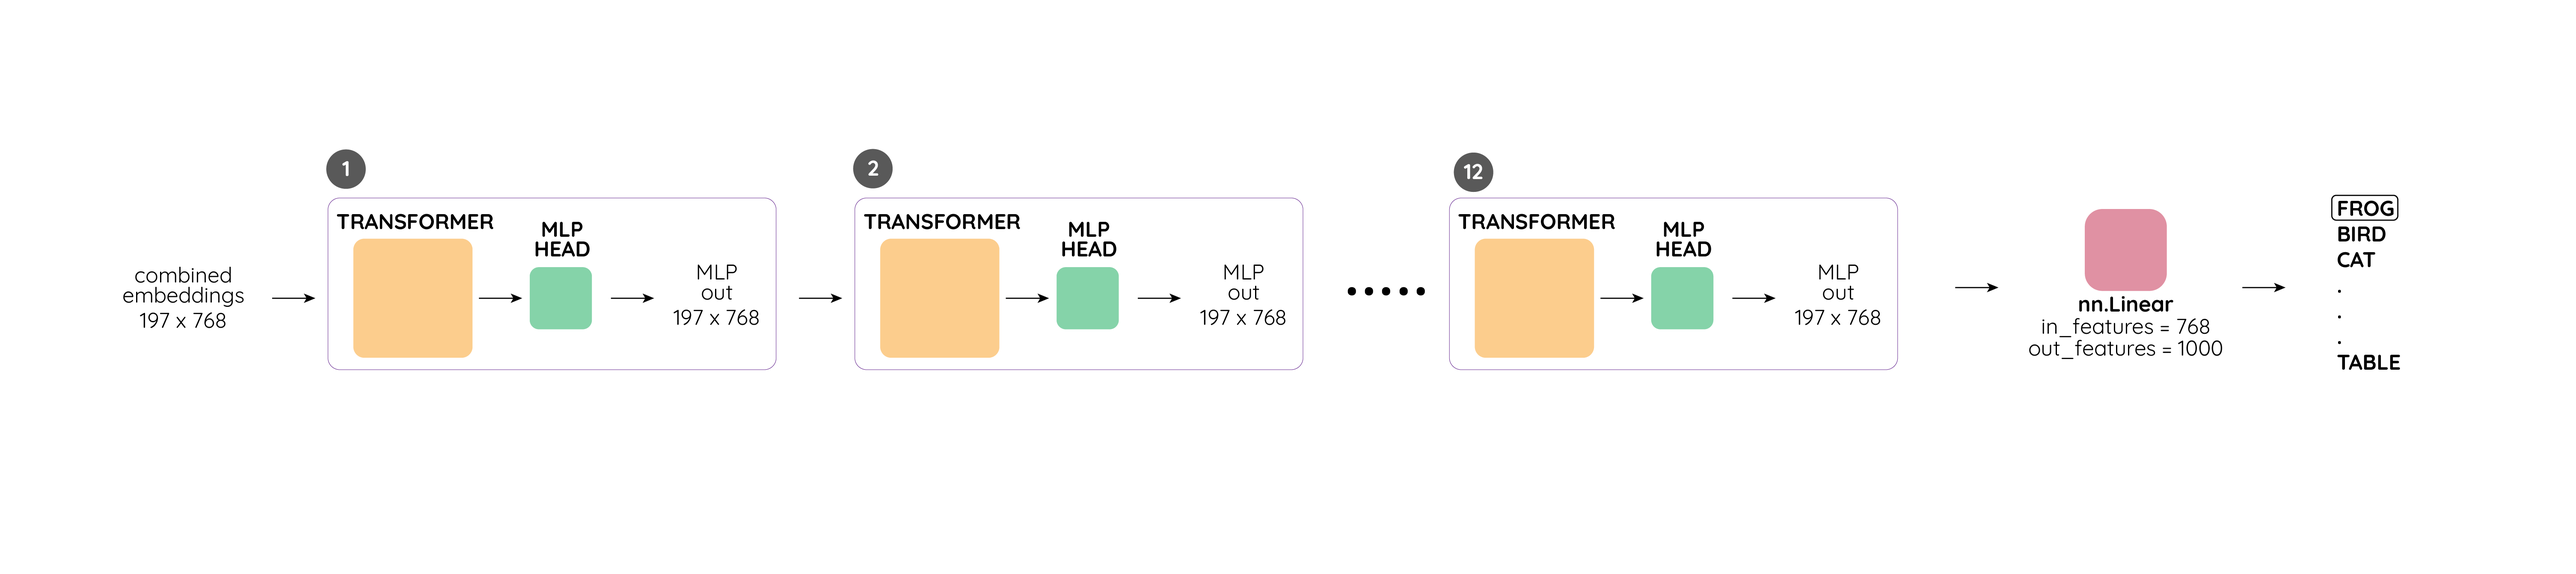
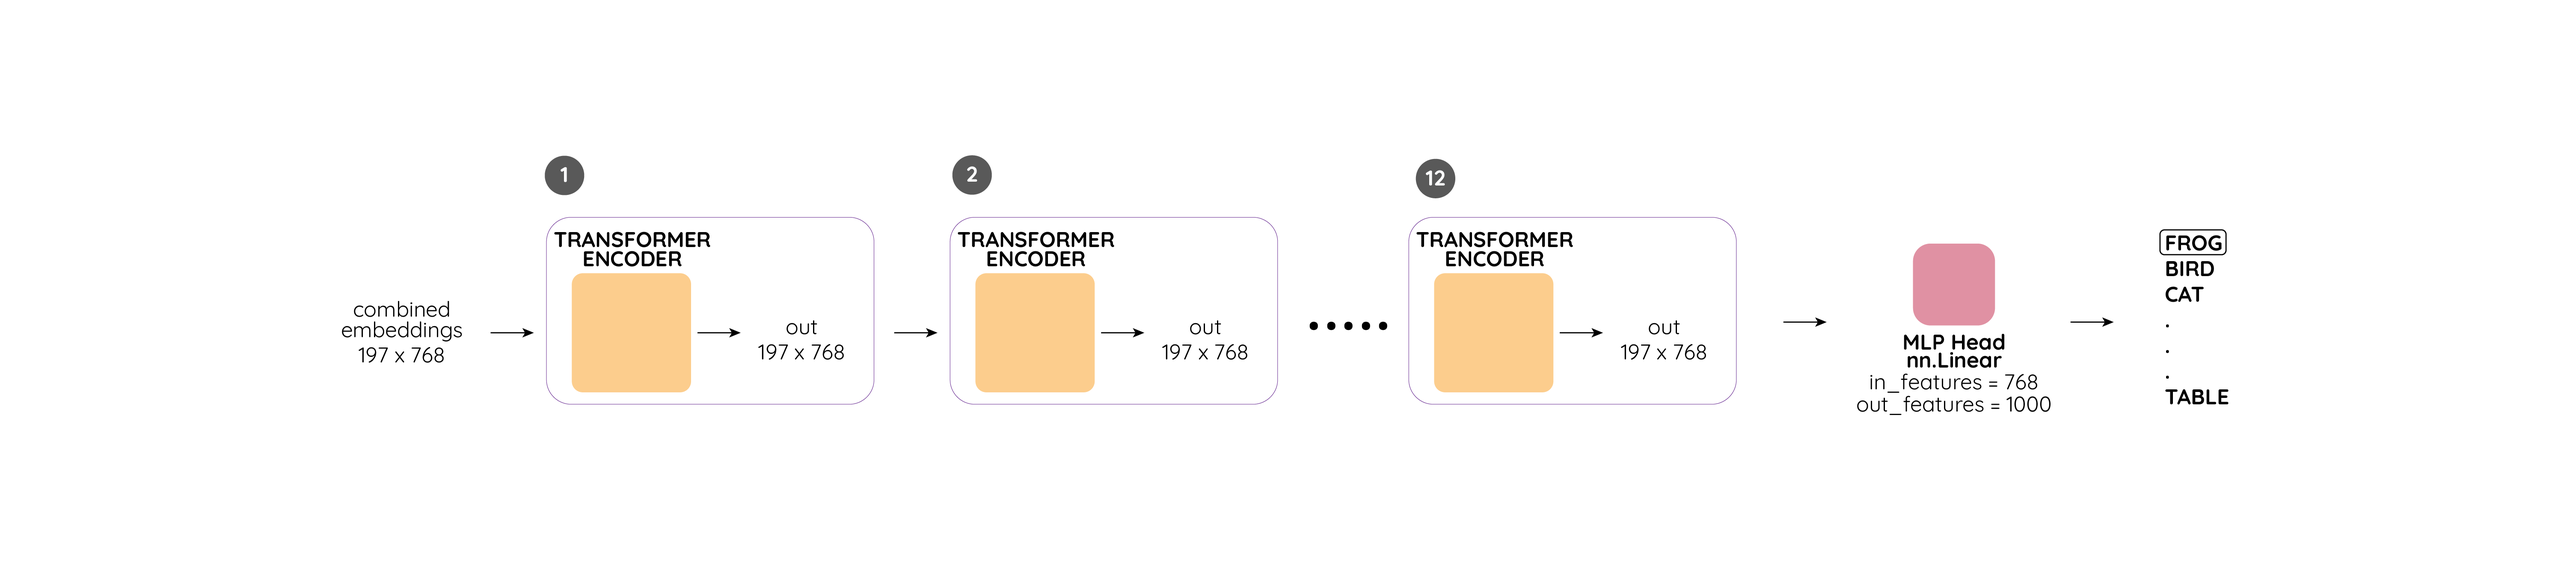
Update

diff --git a/_tmp/2021-01-18-ViT.md b/_tmp/2021-01-18-ViT.md
@@ -57,19 +57,21 @@ Not as descriptive? Enter *Dr Habib* to the rescue.
 
 ![](/images/vit-01.png "fig-2 Simplified Model Overview")
 
-Let's now look at the five steps again with the help of `fig-2`. Let's image that we want to classify a `3` channel (RGB) input image of a frog of size `224 x 224`. 
+Let's now look at the five steps again with the help of `fig-2`. Let's imagine that we want to classify a `3` channel (RGB) input image of a frog of size `224 x 224`. 
 
-The **first step** is to create patches all over the image of patch size `16 x 16`. Thus we create `14 x 14` or `196` such patches. We can have these patches in a straight line as in `fig-2`. As can be seen from the figure, the patch size is `3 x 16 x 16` where `3` represents the number of channels (RGB).
+The **first step** is to create patches all over the image of patch size `16 x 16`. Thus we create `14 x 14` or `196` such patches. We can have these patches in a straight line as in `fig-2` where the first patch comes from the top-left of the input image and the last patch comes from the bottom-right. As can be seen from the figure, the patch size is `3 x 16 x 16` where `3` represents the number of channels (RGB).
 
-In the **second step**, we pass these patches through a **linear projection layer** to get `1 x 768` long vector representation for each of the image patches and these representations have been shown in purple in the figure. In the paper, the authors refer to these representations of the patches as **Patch Embeddings**. Can you guess what's the size of this patch embedding matrix? It's `196 x 768`. Because we had a total of `196` patches and each patch has been represented as a `1 x 768` long vector. Therefore, the total size of the patch embedding matrix is `[196 x 768]`.
+In the **second step**, we pass these patches through a **linear projection layer** to get `1 x 768` long vector representation for each of the image patches and these representations have been shown in purple in the figure. In the paper, the authors refer to these representations of the patches as **Patch Embeddings**. Can you guess what's the size of this patch embedding matrix? It's `196 x 768`. Because we had a total of `196` patches and each patch has been represented as a `1 x 768` long vector. Therefore, the total size of the patch embedding matrix is `196 x 768`.
 
 > You might wonder why is the vector length `768`? Well, `3 x 16 x 16 = 768`. So, we are not really losing any information as step of this process of getting these **patch embeddings**.
 
-In the **third step**, we take this patch embedding matrix of size `196 x 768` and similar to [BERT](https://arxiv.org/abs/1810.04805), the authors add a `[class]` token to this sequence of embedded patches and also add **Position Embeddings**. As we will see [here](https://github.com/amaarora/amaarora.github.io/blob/master/_tmp/2021-01-18-ViT.md#class-token--position-embeddings), when we dig deeper into this step later in the post, the size of patch embedding matrix now becomes `197 x 768` due to the `[class]` token being added and also the size of the position embedding matrix is `197 x 768`. 
+In the **third step**, we take this patch embedding matrix of size `196 x 768` and similar to [BERT](https://arxiv.org/abs/1810.04805), the authors prepend a `[cls]` token to this sequence of embedded patches and then add **Position Embeddings**. As can be seen from `fig-2`, the size of the **Patch Embeddings** becomes `197 x 768` after adding the `[cls]` token and also the size of the **Position Embeddings** is `197 x 768`.
 
 > Why do we add this class token and position embeddings? You will find a detailed answer in the original Transformer and Bert papers, but to answer briefly, the `[class]` tokens are added as a special tokens whose outputs from the `Transformer Encoder` serve as the overall image patch representation. And we add the positional embeddings to retain the positional information of the patches. The Transformer model on it's own does not know about the order of the patches unlike CNNs, thus we need to manually inject some information about the relative or absolute position of the patches.
 
-In the **fourth step**, we pass these preprocessed patch embeddings with positional information and prepended `[class]` tokens to the **Transformer Encoder** and get the learned embeddings of the `[class]` token. Thus the output representation would be of size `[1 x 768]` which are then fed to the `MLP Head` as part of the final **fifth step** to get class predicitions.
+In the **fourth step**, we pass these preprocessed patch embeddings with positional information and prepended `[cls]` token to the **Transformer Encoder** and get the learned representations of the `[cls]` token. Thus, the output frpm the Transformer Encoder would be of size `1 x 768` which is then fed to the `MLP Head` as part of the final **fifth step** to get class predictions.
+
+Having looked at the overall architecture, we will now look at the individual steps in detail in the following sections.
 
 ## Patch Embeddings
 In this section we will be looking at **steps one and two** in detail. That is the process of <u>getting patch embeddings from an input image</u>.
@@ -92,54 +94,48 @@ conv(x).reshape(-1, 196).transpose(0,1).shape
 >> torch.Size([196, 768])
 ```
 
-## `[class]` token & Position Embeddings
-In this section, let's look at the **third step** in more detail. In this step, we add `[class]` tokens and **Positional Embeddings** to the **Patch Embeddings**.
+## `[cls]` token & Position Embeddings
+In this section, let's look at the **third step** in more detail. In this step, we prepend `[cls]` tokens and add **Positional Embeddings** to the **Patch Embeddings**.
 
 From the paper: 
 > Similar to BERT’s [class] token, we prepend a learnable embedding to the sequence of embedded patches, whose state at the output of the Transformer encoder (referred to as **Z<sub>L</sub><sup>0</sup>**) serves as the image representation. Both during pre-training and fine-tuning, a classification head is attached to **Z<sub>L</sub><sup>0</sup>**. 
 
 > Position embeddings are also added to the patch embeddings to retain positional information. We use standard learnable 1D position embeddings and the resulting sequence of embedding vectors serves as input to the encoder.
 
-let's understand this with the help of another visualization.
+This process can be easily visualized as below: 
 
 ![](/images/vit-03.png "fig-4 `CLS` token and Position Embeddings")
 
-As can be seen from `fig-4`, the `[class]` token is a vector of size `1 x 768`. We **prepend** it to the** Patch Embeddings**, thus the updated size of patch embedding matrix becomes `197 x 768`. Next, we **add** a **Positional Embedding** matrix of size `197 x 768` to the updated patch embedding matrix to get combined embeddings which are then ready to be fed to the `Transformer Encoder`. This is a pretty standard step that comes from the original Transformer paper - [Attention is all you need](https://arxiv.org/abs/1706.03762).
+As can be seen from `fig-4`, the `[cls]` token is a vector of size `1 x 768`. We **prepend** it to the **Patch Embeddings**, thus, the updated size of **Patch Embeddings** becomes `197 x 768`. 
+
+Next, we add **Positional Embeddings** of size `197 x 768` to the **Patch Embeddings** with `[cls]` token to get **combined embeddings** which are then fed to the `Transformer Encoder`. This is a pretty standard step that comes from the original Transformer paper - [Attention is all you need](https://arxiv.org/abs/1706.03762).
+
+> Note that the Positional Embeddings and `cls` token vector is nothing fancy but rather just a trainable `nn.Parameter` matrix/vector. 
 
 ## The Transformer Encoder
-This section of the blog post is not specific to Vision Transformers but a repeat of the Transformer Architecture in brief and covers **step-4**. If you already know of the Transformer Architectures, then, feel free to skip this section. If you are not aware of the Transformer Architecture, then I recommend you to go through any of the resources mentioned in the [Prerequisite](https://github.com/amaarora/amaarora.github.io/blob/master/_tmp/2021-01-18-ViT.md#prerequisite) section.
+This section of the blog post is not specific to Vision Transformers but a repeat of the *Transformer Architecture* and covers **step-4**. If you already know of the Transformer Architectures, then, feel free to skip this section. If you are not aware of the Transformer Architecture, then I recommend you to go through any of the resources mentioned in the [Prerequisite](https://github.com/amaarora/amaarora.github.io/blob/master/_tmp/2021-01-18-ViT.md#prerequisite) section of this blog post.
 
-In this section, we will be looking into the **Transformer Encoder** from `fig-1` in detail. As shown in `fig-1`, the Transformer Encoder consists of alternating layers of multiheaded self-attention and MLP blocks. Also, as shown in `fig-1`, **Layer Norm** is used before every block and residual connections after every block.
+In this section, we will be looking into the **Transformer Encoder** from `fig-1` in detail. As shown in `fig-1`, the Transformer Encoder consists of alternating layers of **Multi-Head Attention** and **MLP** blocks. Also, as shown in `fig-1`, **Layer Norm** is used before every block and residual connections after every block.
 
-The Transformer Encoder consists of 12 such layers in the ViT-Base Architecture as shown below.
+A single layer/block of the **Transformer Encoder** can be visualized as below: 
+
+![](/images/vit-07.png "fig-5 Transformer Encoder Block")
+
+The first layer of the **Transformer Encoder** accepts **combined embeddings** of shape`197 x 768` as input. For all subsequent layers, the inputs are the outputs from the previous layer of the **Transformer Encoder**. There are a total of 12 such layers in the **Transformer Encoder**.
+
+Next, these inputs - **combined embeddings**, are passed through a **Norm layer** (Layer Norm), and fed to **Multi-Head Attention** block. The inputs are first converted to `197 x 2304 (768*3)` shape using a **Linear layer** to get the **qkv** matrix. Next we reshape this **qkv** matrix into `3 x 197 x 768` where each of the three matrices of shape `197 x 768` represent the **q**, **k** and **v** matrices. These **q**, **k** and **v** matrices are further reshaped to `197 x 12 x 64` to represent the 12 attention heads. Once we have the **q**, **k** and **v** matrices, we finally perform the attention operation inside the **Multi-Head Attention** block which is given by the equation:
+
+<img src="/images/attention.png" alt="Attention" width="400"/>
+
+Once we get the outputs from the **Multi-Head Attention** block, these are added to the inputs as there are skip connections inside the **Transformer Encoder** block. 
+
+These outputs are then fed to the **MLP** which consists of two linear layers and a GELU non-linearity to get the outputs from the **MLP** which are again added to the inputs (skip connection). This is the final output from one layer of the **Transformer Encoder**.
+
+Having looked at a single layer inside the **Transformer Encoder**, let's now zoom out and look at the complete **Transformer Encoder**.
 
 ![](/images/vit-06.png "fig-5 Transformer Encoder")
 
-We already know how to get the **combined embeddings**. These combined embeddings are then fed into a 12 layer **Transformer Encoder** where each layer consists of Multi-headed Attention and MLP.
-
-Let's look inside a single layer and what's going on.
-
-![](/images/vit-04.png "fig-6 Encoder Block")
-
-Each layer accepts a set of inputs, for the first layer, these inputs are the combined embeddings of shape `[197 x 768]`. Next, these inputs are passed through a Norm layer (Layer Norm), and fed to the multi-headed attention block. The inputs are first converted to `[197 x 768*3]` shape using a Linear layer to get the **qkv** matrix. Next we reshape this **qkv** matrix into `3 x 197 x 768` where each of the three matrices of shape `[197 x768]` represent the **q**, **k** and **v** matrices. These **q**, **k** and **v** matrices are further reshaped to `197 x 12 x 64` to represent the 12 attention heads. We finally perform the **Attention operation** which is given by the equation: 
-
-![](/images/attention.png "eq-1 Attention")
-
-Finally the output matrix fed into a `Norm` layer before being passed through a `MLP` network to get the outputs.
-
-![](/images/vit-05.png "fig-7 MLP")
-
-The MLP as mentioned in the paper: 
-> The MLP contains two layers with a GELU non-linearity.
-
-As can be seen from `fig-7`, the `MLP` consists of two layers followed by GELU non-linearity. The input and output dimensions remain the same for the `MLP` layer. The `MLP` Layer exists inside the Transformer Encoder layer. 
-
-Thus, the final output from the **Transformer Encoder** is of shape `[197 x 768]`.
-
-## MLP Head
-In this section we look at the final **fifth step** of the Vision Transformer Architecture. Once, we get the `[197 x 768]` matrix as output from the Transformer Encoder, we just keep the representations for the `[class]` token at index 0 in this matrix. Thus we extract the `[class]` token learned representations that are of size `[1 x 768]`.
-
-This vector is then finally fed into a MLP Head which is a Linear Layer to get final class predictions.
+As can be seen from the image above, a single **Transformer Encoder** consists of 12 layers. The outputs from the first layer are fed to the second layer, outputs from the second fed to the third until we get the final outputs from the 12th layer of the **Transformer Encoder** which are then fed to the **MLP Head** to get class predictions. The above image is another way to summarize `fig-1`.
 
 ## The Vision Transformer in PyTorch 
 To understand the code implementation of ViT in [timm](https://github.com/rwightman/pytorch-image-models), refer [here]().
